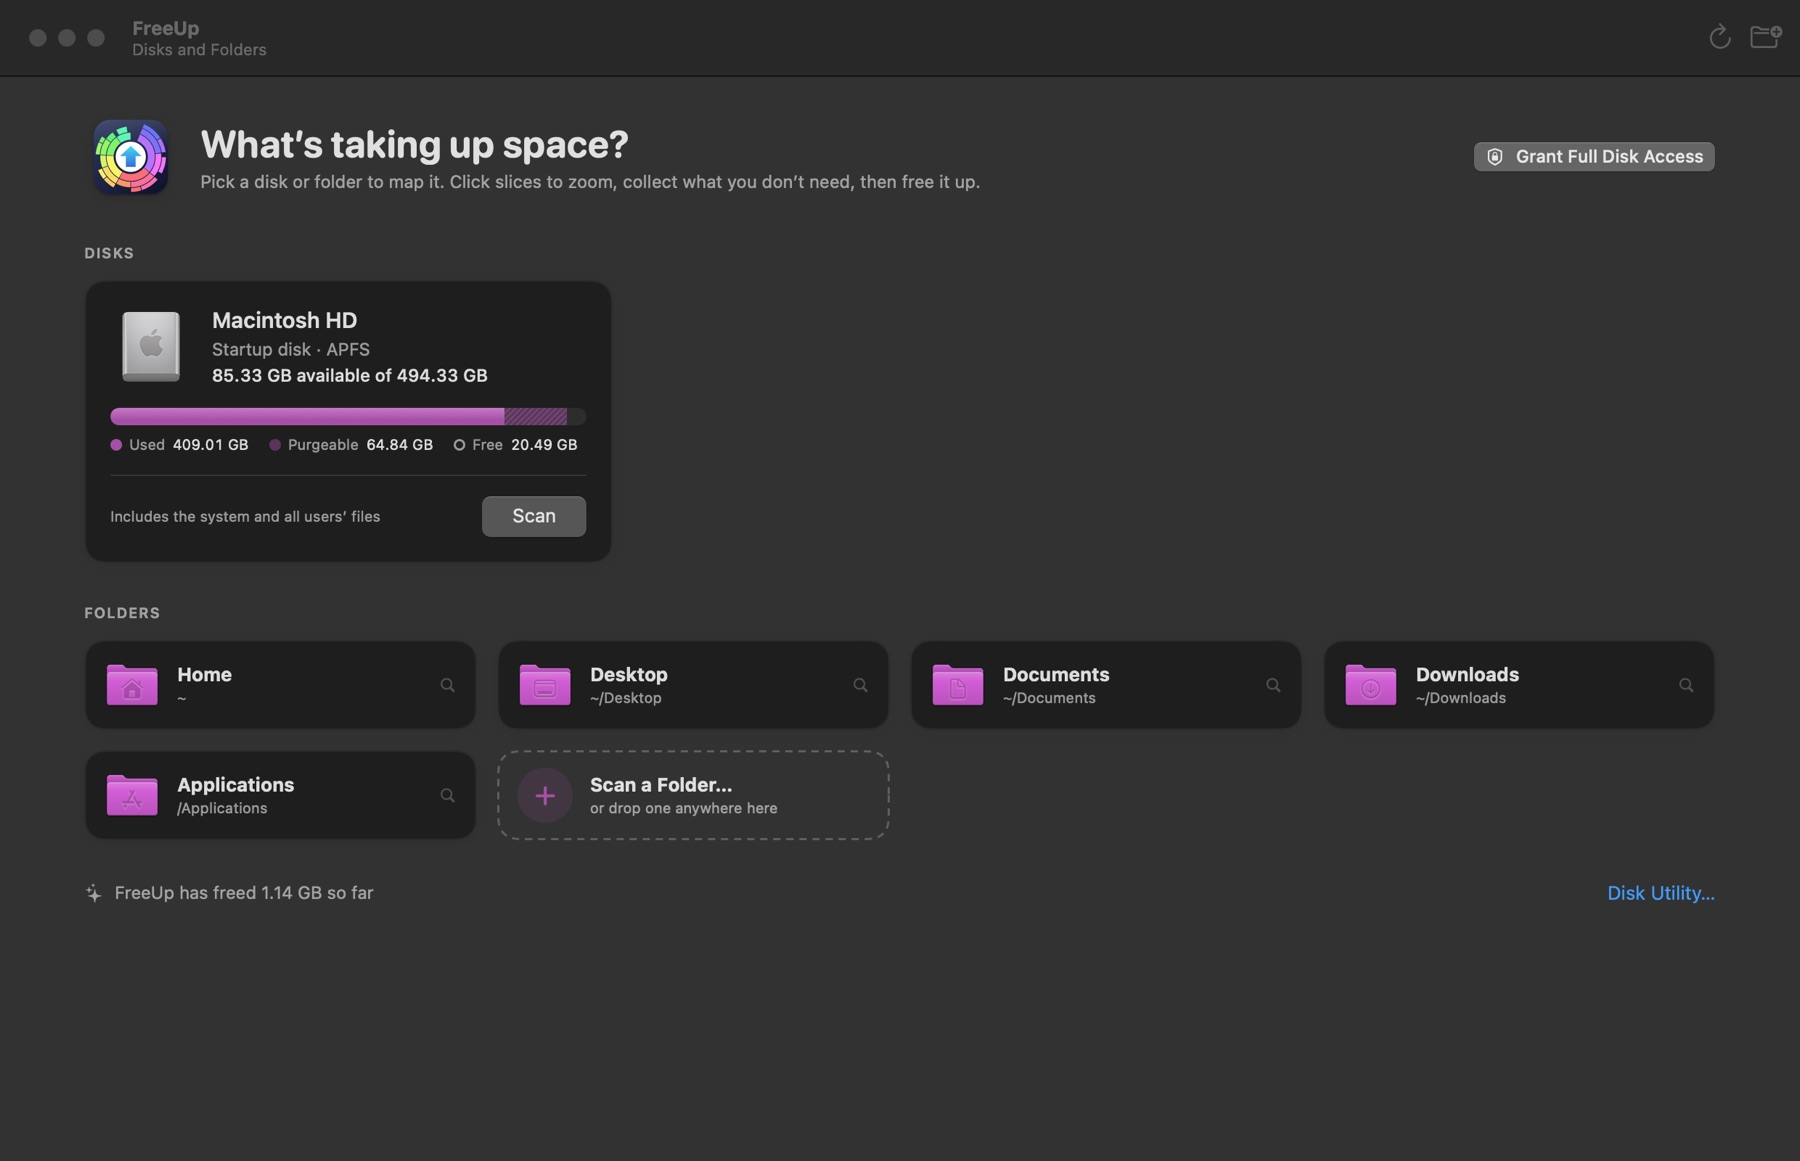
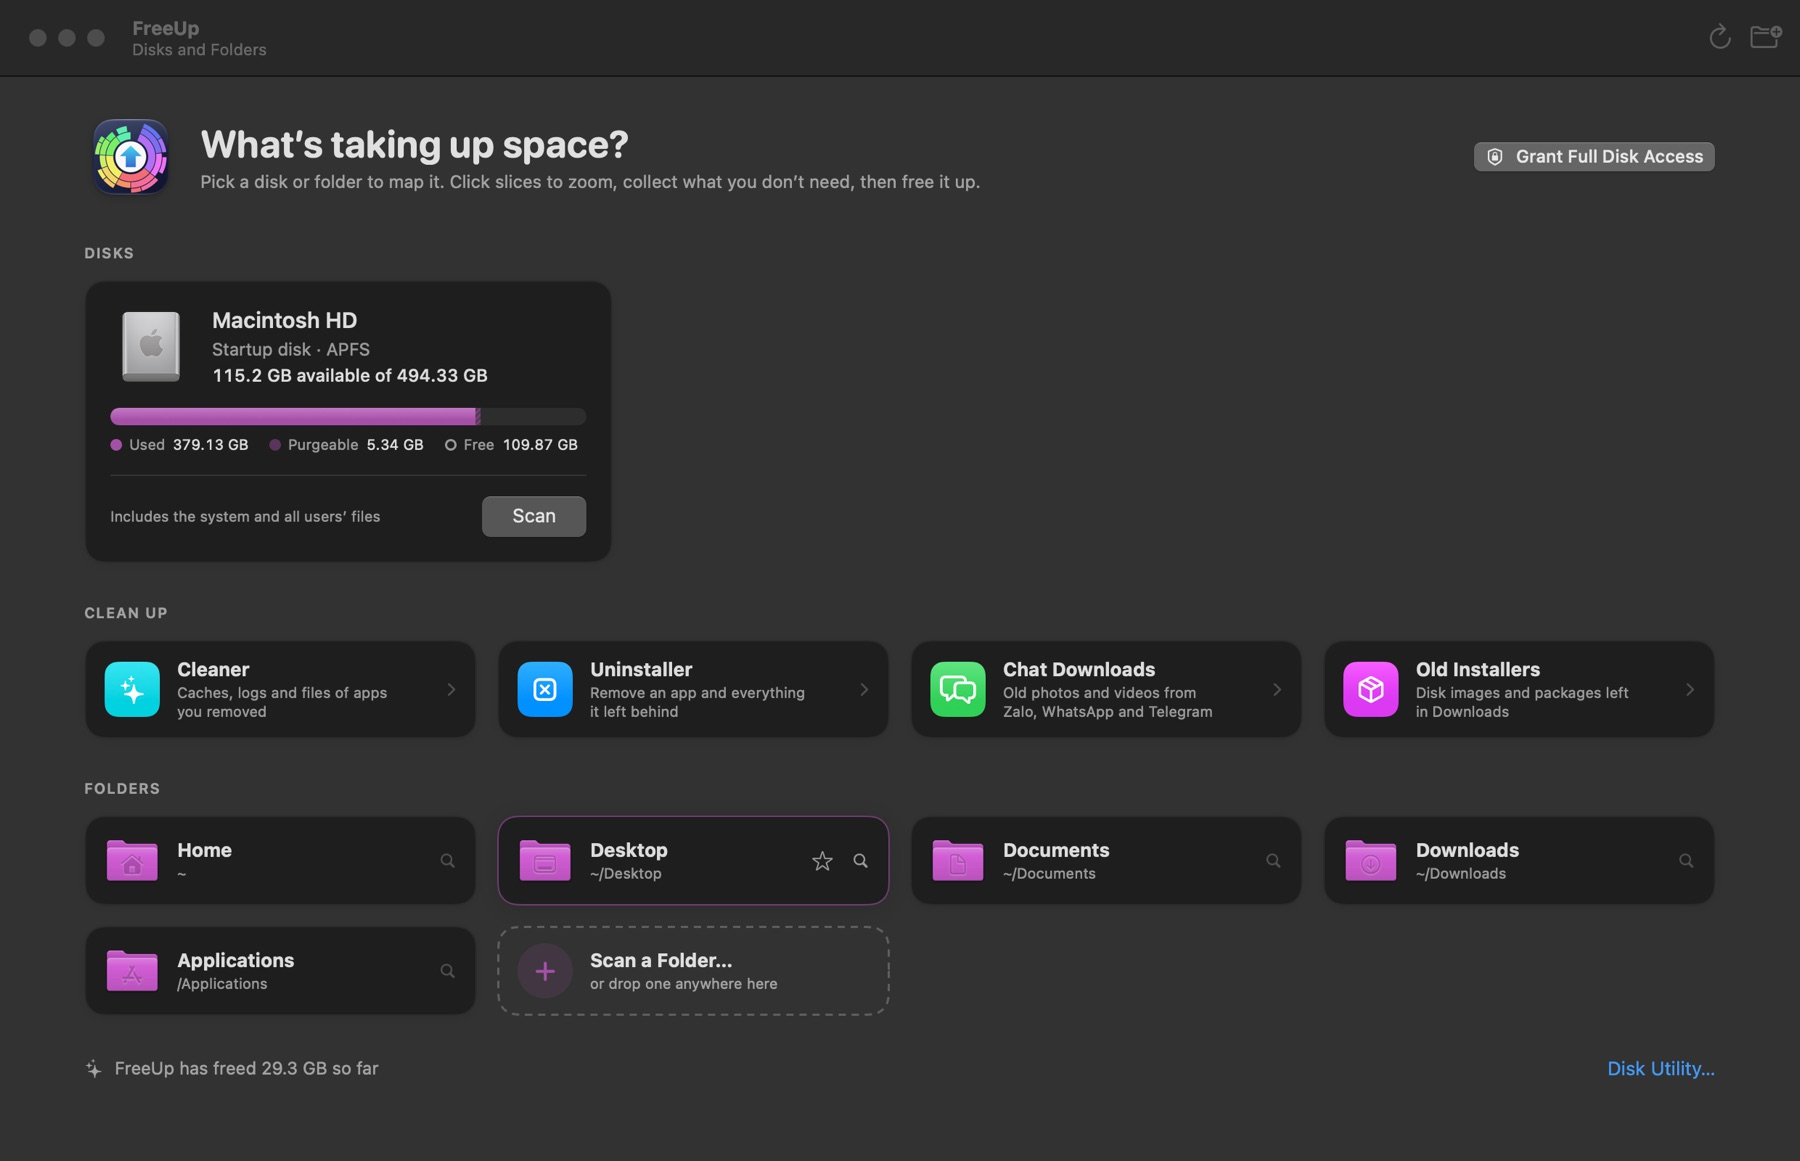
Publish FreeUp 2.2.0

diff --git a/apps/freeup/index.html b/apps/freeup/index.html
@@ -4,9 +4,9 @@
 <meta charset="utf-8">
 <meta name="viewport" content="width=device-width, initial-scale=1">
 <title>FreeUp · ExplAIn Sims · Mac apps</title>
-<meta name="description" content="Scans a disk or folder and draws it as rings. Click to go in, drag what you don't need to be deleted, and see the space come back.">
+<meta name="description" content="Scans a disk or folder and draws it as rings. Click to go in, drag what you don't need to be deleted, and see the space come back. Clean Up clears caches, old chat downloads and installers, and uninstalls apps with everything they left behind.">
 <meta property="og:title" content="FreeUp · ExplAIn Sims · Mac apps">
-<meta property="og:description" content="Scans a disk or folder and draws it as rings. Click to go in, drag what you don't need to be deleted, and see the space come back.">
+<meta property="og:description" content="Scans a disk or folder and draws it as rings. Click to go in, drag what you don't need to be deleted, and see the space come back. Clean Up clears caches, old chat downloads and installers, and uninstalls apps with everything they left behind.">
 <meta property="og:url" content="https://store.explainsims.com/apps/freeup/">
 <meta property="og:type" content="website">
 <meta property="og:image" content="https://store.explainsims.com/shots/freeup/1-light.jpg">
@@ -116,17 +116,17 @@ ol.rm .n{flex:none;width:24px;height:24px;border-radius:12px;display:grid;place-
   <a class="back" href="../../#apps">&#8249; All apps</a>
   <header class="apphead"><img class="icon" src="../../icons/freeup.png" alt="" width="128" height="128">
     <div><h1>FreeUp<span class="elig new" data-added="2026-11-08T01:40:07Z" hidden>New</span></h1>
-    <p class="sum">Scans a disk or folder and draws it as rings. Click to go in, drag what you don't need to be deleted, and see the space come back.</p>
+    <p class="sum">Scans a disk or folder and draws it as rings. Click to go in, drag what you don't need to be deleted, and see the space come back. Clean Up clears caches, old chat downloads and installers, and uninstalls apps with everything they left behind.</p>
     <p class="alt">An alternative to DaisyDisk.</p>
-    <div class="acts"><a class="btn primary big" href="https://github.com/explainsims/store/releases/download/freeup-2.1.1/FreeUp-2.1.1.zip">Download</a><small>2.1.1 · 3.3 MB · free</small><a href="#feedback"><svg width="14" height="14" viewBox="0 0 15 15" fill="none" stroke="currentColor" stroke-width="1.4" stroke-linejoin="round" aria-hidden="true"><path d="M2.2 3.6c0-.9.7-1.6 1.6-1.6h7.4c.9 0 1.6.7 1.6 1.6v5.2c0 .9-.7 1.6-1.6 1.6H6.4L3.6 12.8v-2.4c-.8 0-1.4-.7-1.4-1.6z"/></svg>Send Feedback</a></div>
+    <div class="acts"><a class="btn primary big" href="https://github.com/explainsims/store/releases/download/freeup-2.2.0/FreeUp-2.2.0.zip">Download</a><small>2.2.0 · 4.2 MB · free</small><a href="#feedback"><svg width="14" height="14" viewBox="0 0 15 15" fill="none" stroke="currentColor" stroke-width="1.4" stroke-linejoin="round" aria-hidden="true"><path d="M2.2 3.6c0-.9.7-1.6 1.6-1.6h7.4c.9 0 1.6.7 1.6 1.6v5.2c0 .9-.7 1.6-1.6 1.6H6.4L3.6 12.8v-2.4c-.8 0-1.4-.7-1.4-1.6z"/></svg>Send Feedback</a></div>
     <p class="tip">Or get <a href="../../apps/storefront/">Storefront</a>: it installs FreeUp in one click, skips the Open Anyway step, and keeps it up to date.</p></div>
   </header>
   <section class="facts" aria-label="Facts">
-    <div><small>Version</small><b>2.1.1</b><i>latest</i></div>
-    <div><small>Size</small><b>3.3 MB</b><i>download</i></div>
+    <div><small>Version</small><b>2.2.0</b><i>latest</i></div>
+    <div><small>Size</small><b>4.2 MB</b><i>download</i></div>
     <div><small>Needs</small><b>macOS 14</b><i>or later</i></div>
     <div><small>Chip</small><b>Any Mac</b><i>Apple silicon and Intel</i></div>
-    <div><small>Updated</small><b>9 Nov</b><i>2026</i></div>
+    <div><small>Updated</small><b>24 Nov</b><i>2026</i></div>
   </section>
   <section class="shots">
   <div class="sh"><h2>Screenshots</h2><div class="seg" role="group" aria-label="Appearance"><button type="button" data-mode="light" aria-pressed="true">Light</button><button type="button" data-mode="dark" aria-pressed="false">Dark</button></div></div>
@@ -134,7 +134,7 @@ ol.rm .n{flex:none;width:24px;height:24px;border-radius:12px;display:grid;place-
 </section>
 <dialog class="lightbox" aria-label="Screenshot"><img alt=""><button type="button" class="lb prev" aria-label="Previous">&#8249;</button><button type="button" class="lb next" aria-label="Next">&#8250;</button><button type="button" class="lb x" aria-label="Close">&times;</button></dialog>
   <section class="cols">
-    <div><h2>What's new in 2.1.1</h2><ul><li>Check for Updates… in the FreeUp menu. From now on FreeUp updates itself, checking once a day.</li></ul></div>
+    <div><h2>What's new in 2.2.0</h2><ul><li>Clean Up: Cleaner (caches, logs, files of apps you removed), Uninstaller (an app with everything it left behind), Chat Downloads (old Zalo, WhatsApp and Telegram photos and videos) and Old Installers. Everything goes to the Trash after you see the list.</li></ul></div>
     <div><h2>Good to know</h2><dl class="kv"><dt>Read Me</dt><dd><a href="readme.html">How to use FreeUp</a></dd><dt>First open</dt><dd>macOS asks you to allow it once, under System Settings › Privacy &amp; Security › Open Anyway. Apps installed through Storefront skip that.</dd></dl></div>
   </section>
   <section class="fbcard" id="feedback"><div class="fbtop"><h2>Send feedback about FreeUp</h2><span class="priv"><svg width="12" height="12" viewBox="0 0 12 12" fill="none" stroke="currentColor" stroke-width="1.5" aria-hidden="true"><rect x="2" y="5.2" width="8" height="5.6" rx="1.4"/><path d="M3.8 5.2V3.8a2.2 2.2 0 0 1 4.4 0v1.4"/></svg>Private and anonymous</span></div>

diff --git a/apps/freeup/readme.html b/apps/freeup/readme.html
@@ -115,7 +115,7 @@ ol.rm .n{flex:none;width:24px;height:24px;border-radius:12px;display:grid;place-
 <main class="page readme">
   <div class="rmtop"><a class="back" href="./">&#8249; FreeUp</a><a href="../../readme/freeup.txt">Plain text</a></div>
   <header class="rmhead"><img class="icon" src="../../icons/freeup.png" alt="" width="64" height="64">
-    <div><h1>Read Me</h1><p>FreeUp 2.1.1 · how to install and use it</p></div>
+    <div><h1>Read Me</h1><p>FreeUp 2.2.0 · how to install and use it</p></div>
   </header>
   <p class="lead">FreeUp shows what's taking up space on your Mac as a colourful map, and helps you free it up safely.</p>
 <h2>What's in this folder</h2>
@@ -126,7 +126,7 @@ ol.rm .n{flex:none;width:24px;height:24px;border-radius:12px;display:grid;place-
 <ol class="rm"><li><span class="n">1</span><div><p>Double-click <b>Install FreeUp.command</b>.</p><p>If macOS says it can't be opened (<b>Apple could not verify…</b>): click Done, open System Settings → Privacy &amp; Security, scroll down and click <b>Open Anyway</b>, then double-click the installer again.</p><p>Or open Terminal, type <code>bash</code> followed by a space, drag <b>Install FreeUp.command</b> into the Terminal window, and press Return.</p></div></li><li><span class="n">2</span><div><p>The installer moves FreeUp into Applications and opens it.</p></div></li></ol>
 <p>Prefer to do it by hand? Drag FreeUp into Applications and open it. The first time, macOS blocks it: go to System Settings → Privacy &amp; Security and click <b>Open Anyway</b>.</p>
 <h2>Using FreeUp</h2>
-<ul class="rm"><li>Pick a disk or folder and click Scan.</li><li>Hover the map to see sizes. Click a slice to zoom in, and the center to go back up.</li><li>Drag anything you don't need into the Collector at the bottom (or click ⊕), then click Move to Trash. Nothing is deleted until you confirm.</li><li>The Insights tab suggests caches, build files and old downloads to look at.</li><li><b>Cloud files:</b> FreeUp never downloads anything. Files that are only in iCloud, Google Drive, OneDrive or Dropbox count as zero, because they use no space on your Mac.</li><li>To leave folders out of scans, open FreeUp → Settings → Scanning. One switch there skips all cloud storage folders. You can also Control-click a folder and choose Skip in Future Scans.</li><li><b>Full Disk Access:</b> for a complete picture of your disk, open FreeUp → Settings → Full Disk Access and follow the steps. Then quit and reopen FreeUp. Without it, some protected folders show up as <b>hidden space</b>.</li><li>FreeUp only reads file names, sizes and dates. Nothing leaves your Mac.</li></ul>
+<ul class="rm"><li>Pick a disk or folder and click Scan.</li><li>Hover the map to see sizes. Click a slice to zoom in, and the center to go back up.</li><li>Drag anything you don't need into the Collector at the bottom (or click ⊕), then click Move to Trash. Nothing is deleted until you confirm.</li><li>The Insights tab suggests caches, build files and old downloads to look at.</li><li><b>Clean Up, on the start page:</b> Cleaner (caches, logs, files of apps you removed), Uninstaller (an app with all its files), Chat Downloads (old Zalo, WhatsApp and Telegram photos and videos) and Old Installers (disk images and packages in Downloads). You see what will move and the total first, and everything goes to the Trash. Close a chat app before clearing its downloads.</li><li>macOS may ask <b>FreeUp would like to access data from other apps</b>. Click Allow so FreeUp can measure them (or give it Full Disk Access).</li><li><b>Cloud files:</b> FreeUp never downloads anything. Files that are only in iCloud, Google Drive, OneDrive or Dropbox count as zero, because they use no space on your Mac.</li><li>To leave folders out of scans, open FreeUp → Settings → Scanning. One switch there skips all cloud storage folders. You can also Control-click a folder and choose Skip in Future Scans.</li><li><b>Full Disk Access:</b> for a complete picture of your disk, open FreeUp → Settings → Full Disk Access and follow the steps. Then quit and reopen FreeUp. Without it, some protected folders show up as <b>hidden space</b>.</li><li>FreeUp only reads file names, sizes and dates. Nothing leaves your Mac.</li></ul>
 <h2>Good to know</h2>
 <ul class="rm"><li><b>To update:</b> unzip a newer copy and run its installer. It replaces the old one and keeps your settings.</li><li><b>To uninstall:</b> quit FreeUp and drag it from Applications to the Trash.</li><li>FreeUp is free and open source. It isn't from the App Store and isn't notarized by Apple, which is why macOS asks you to confirm it the first time.</li></ul>
 

diff --git a/index.html b/index.html
@@ -143,9 +143,9 @@ ol.rm .n{flex:none;width:24px;height:24px;border-radius:12px;display:grid;place-
 <article class="app" id="footprints" data-kind="tools" data-text="footprints see how a google doc was written. open any google doc you can edit and click the footprints button: watch the doc write itself again, with typed text, pastes from outside, moved text and text another student’s doc had first all marked, and see when the writer worked. make a one-page pdf report, or check every doc linked on a toddle assignment or drive folder at once, so a paragraph that turns up in two students’ docs shows who had it first. everything is worked out on your computer; nothing is sent anywhere. draftback and revision history tools"><img class="icon" src="icons/footprints.png" alt="" width="64" height="64" loading="lazy">
   <div class="t"><h3><a class="cover" href="apps/footprints/">Footprints</a><span class="elig new" data-added="2026-11-14T14:13:58Z" hidden>New</span></h3><p class="tag">See how a Google Doc was written.</p><small>1.0.1 · 1.9 MB</small></div>
   <a class="btn get" href="https://github.com/explainsims/store/releases/download/footprints-1.0.1/Footprints-1.0.1.zip" aria-label="Download Footprints">Download</a></article>
-<article class="app" id="freeup" data-kind="tools" data-text="freeup see what fills your disk, on a sunburst map. scans a disk or folder and draws it as rings. click to go in, drag what you don't need to be deleted, and see the space come back. daisydisk tools"><img class="icon" src="icons/freeup.png" alt="" width="64" height="64" loading="lazy">
-  <div class="t"><h3><a class="cover" href="apps/freeup/">FreeUp</a><span class="elig new" data-added="2026-11-08T01:40:07Z" hidden>New</span></h3><p class="tag">See what fills your disk, on a sunburst map.</p><small>2.1.1 · 3.3 MB</small></div>
-  <a class="btn get" href="https://github.com/explainsims/store/releases/download/freeup-2.1.1/FreeUp-2.1.1.zip" aria-label="Download FreeUp">Download</a></article>
+<article class="app" id="freeup" data-kind="tools" data-text="freeup see what fills your disk, on a sunburst map. scans a disk or folder and draws it as rings. click to go in, drag what you don't need to be deleted, and see the space come back. clean up clears caches, old chat downloads and installers, and uninstalls apps with everything they left behind. daisydisk tools"><img class="icon" src="icons/freeup.png" alt="" width="64" height="64" loading="lazy">
+  <div class="t"><h3><a class="cover" href="apps/freeup/">FreeUp</a><span class="elig new" data-added="2026-11-08T01:40:07Z" hidden>New</span></h3><p class="tag">See what fills your disk, on a sunburst map.</p><small>2.2.0 · 4.2 MB</small></div>
+  <a class="btn get" href="https://github.com/explainsims/store/releases/download/freeup-2.2.0/FreeUp-2.2.0.zip" aria-label="Download FreeUp">Download</a></article>
 <article class="app" id="hdmusic" data-kind="music" data-text="hd music hi-res and dsd player, with a library, radio and eq. plays dsf, dff, sacd isos, blu-ray audio and hi-res files bit-perfect, with a signal path and converter, an eq that corrects your headphones (from autoeq's measurements) and can work on every app's sound, a library for local drives and nas shares, internet radio and the internet archive. sony's hi-res audio player music"><img class="icon" src="icons/hdmusic.png" alt="" width="64" height="64" loading="lazy">
   <div class="t"><h3><a class="cover" href="apps/hdmusic/">HD Music</a><span class="elig new" data-added="2026-11-08T01:40:23Z" hidden>New</span></h3><p class="tag">Hi-res and DSD player, with a library, radio and EQ.</p><small>1.9.1 · 26.9 MB</small></div>
   <a class="btn get" href="https://github.com/explainsims/store/releases/download/hdmusic-1.9.1/HD-Music-1.9.1.zip" aria-label="Download HD Music">Download</a></article>
@@ -193,7 +193,7 @@ ol.rm .n{flex:none;width:24px;height:24px;border-radius:12px;display:grid;place-
 </main>
 <footer>
   <p>The first time you open an app downloaded here, macOS asks you to allow it under System Settings › Privacy &amp; Security › Open Anyway, because the apps aren't notarised by Apple. Apps installed through Storefront skip that step, and so does Storefront when you install it from Terminal.</p>
-  <p>Not affiliated with Apple or with the makers of any app these are alternatives to. Updated 22 November 2026.</p>
+  <p>Not affiliated with Apple or with the makers of any app these are alternatives to. Updated 24 November 2026.</p>
 </footer>
 <script>
 (() => {

diff --git a/apps/throw/index.html b/apps/throw/index.html
@@ -126,7 +126,7 @@ ol.rm .n{flex:none;width:24px;height:24px;border-radius:12px;display:grid;place-
     <div><small>Size</small><b>3.3 MB</b><i>download</i></div>
     <div><small>Needs</small><b>macOS 14</b><i>or later</i></div>
     <div><small>Chip</small><b>Any Mac</b><i>Apple silicon and Intel</i></div>
-    <div><small>Updated</small><b>17 Nov</b><i>2026</i></div>
+    <div><small>Updated</small><b>18 Nov</b><i>2026</i></div>
   </section>
   <section class="shots">
   <div class="sh"><h2>Screenshots</h2><div class="seg" role="group" aria-label="Appearance"><button type="button" data-mode="light" aria-pressed="true">Light</button><button type="button" data-mode="dark" aria-pressed="false">Dark</button></div></div>
